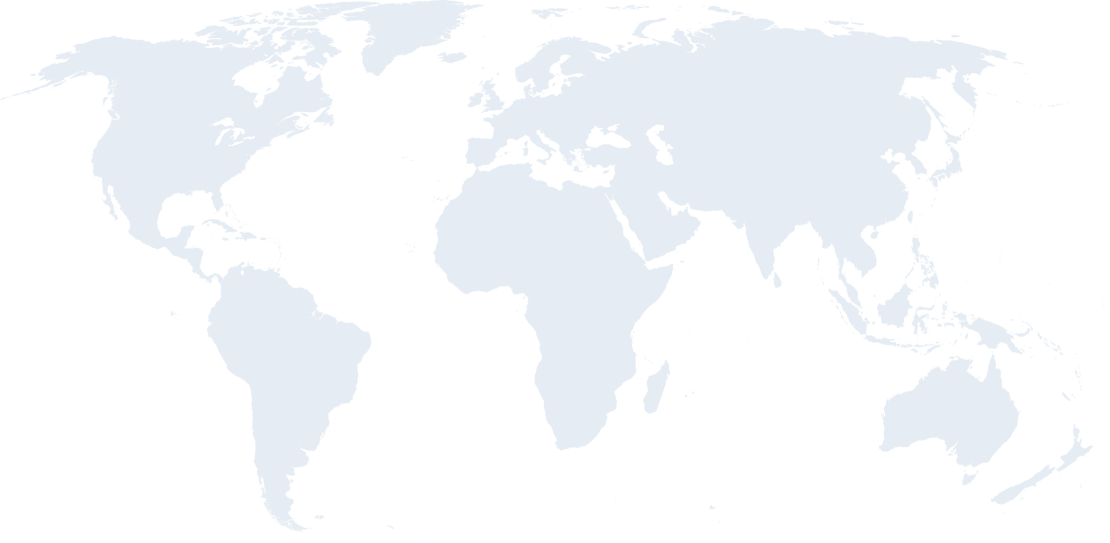
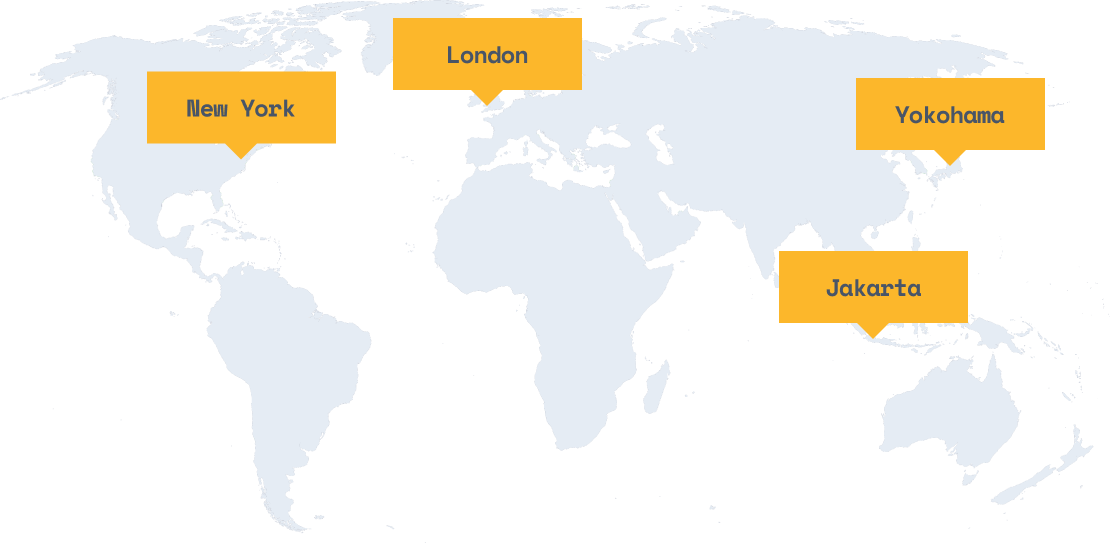
map done

diff --git a/location.html b/location.html
@@ -91,6 +91,44 @@
           aria-hidden="true"
         />
       </section>
+      <section class="map wrapper">
+        <picture class="map__picture">
+          <source
+            media="(width >= 68.75em)"
+            srcset="/src/assets/images/world-map-desktop.png"
+            width="1110"
+            height="543"
+          />
+          <source
+            media="(width >= 43.75em)"
+            srcset="/src/assets/images/world-map-tablet.png"
+            width="689"
+            height="337"
+          />
+          <img
+            class="map__image"
+            src="/src/assets/images/world-map-mobile.png"
+            alt="light blue world map silhouette against a dark background"
+            width="622"
+            height="304"
+          />
+        </picture>
+        <ul class="map__cities">
+          <li class="map__city">New York</li>
+          <li class="map__city">London</li>
+          <li class="map__city">Jakarta</li>
+          <li class="map__city">Yokohama</li>
+        </ul>
+        <div class="map__content">
+          <h2>Your City Not Listed?</h2>
+          <p>
+            If you'd like to see Scoot in your hometown, be sure to let us know.
+            We track requests and plan launches based on demand. Feel free to
+            message us by clicking the link or messaging us on social.
+          </p>
+          <a href="" class="button">Message Us</a>
+        </div>
+      </section>
     </main>
     <script type="module" src="/src/js/script.js"></script>
   </body>

diff --git a/src/scss/pages/location/_map.scss b/src/scss/pages/location/_map.scss
@@ -1,0 +1,83 @@
+@use "../../abstracts" as *;
+
+.map {
+  margin-block: rem(72);
+
+  @include breakpoint-up(medium) {
+    margin-block: rem(120);
+  }
+
+  &__picture {
+    margin-block-end: rem(42);
+
+    @include breakpoint-up(medium) {
+      margin-block-end: rem(64);
+    }
+  }
+
+  &__image {
+    margin-inline: auto;
+  }
+
+  &__cities {
+    display: grid;
+    grid-template-columns: 1fr;
+    gap: rem(18);
+    margin-block-end: rem(48);
+
+    @include breakpoint-up(medium) {
+      display: none;
+    }
+  }
+
+  &__city {
+    display: grid;
+    place-items: center;
+    height: rem(72);
+    font-family: $font-mono;
+    font-size: $font-md;
+    font-weight: 700;
+    color: $dark-navy;
+    letter-spacing: -1.07px;
+    background: $light-cream;
+  }
+
+  &__content {
+    display: grid;
+    grid-template-columns: 1fr;
+    justify-items: center;
+    text-align: center;
+    gap: rem(34);
+
+    @include breakpoint-up(large) {
+      grid-template-columns: rem(322) rem(445) rem(225);
+      justify-content: space-between;
+      align-items: start;
+      text-align: left;
+      gap: 0;
+    }
+
+    h2 {
+      font-size: $font-xl;
+      color: $dark-navy;
+
+      @include breakpoint-up(medium) {
+        font-size: $font-2xl;
+      }
+    }
+
+    p {
+      max-width: 60ch;
+      text-wrap: wrap;
+      color: $dim-grey;
+    }
+
+    .button {
+      justify-self: center;
+
+      @include breakpoint-up(large) {
+        justify-self: end;
+      }
+    }
+  }
+}

diff --git a/src/scss/abstracts/_variables.scss b/src/scss/abstracts/_variables.scss
@@ -8,7 +8,7 @@ $yellow: hsl(40, 97%, 58%);
 $dim-grey: hsl(217, 12%, 62%);
 $dark-navy: hsl(216, 17%, 35%);
 $light-grey: hsl(212, 41%, 93%);
-$light-yellow: hsl(39, 100%, 94%);
+$light-cream: hsl(39, 100%, 94%);
 $light-black: hsla(0, 0%, 0%, 0.75);
 
 // Fonts

diff --git a/src/scss/pages/_index.scss b/src/scss/pages/_index.scss
@@ -1,1 +1,2 @@
 @forward "home";
+@forward "location";

diff --git a/src/scss/pages/location/_index.scss b/src/scss/pages/location/_index.scss
@@ -1,0 +1,1 @@
+@forward "map";
